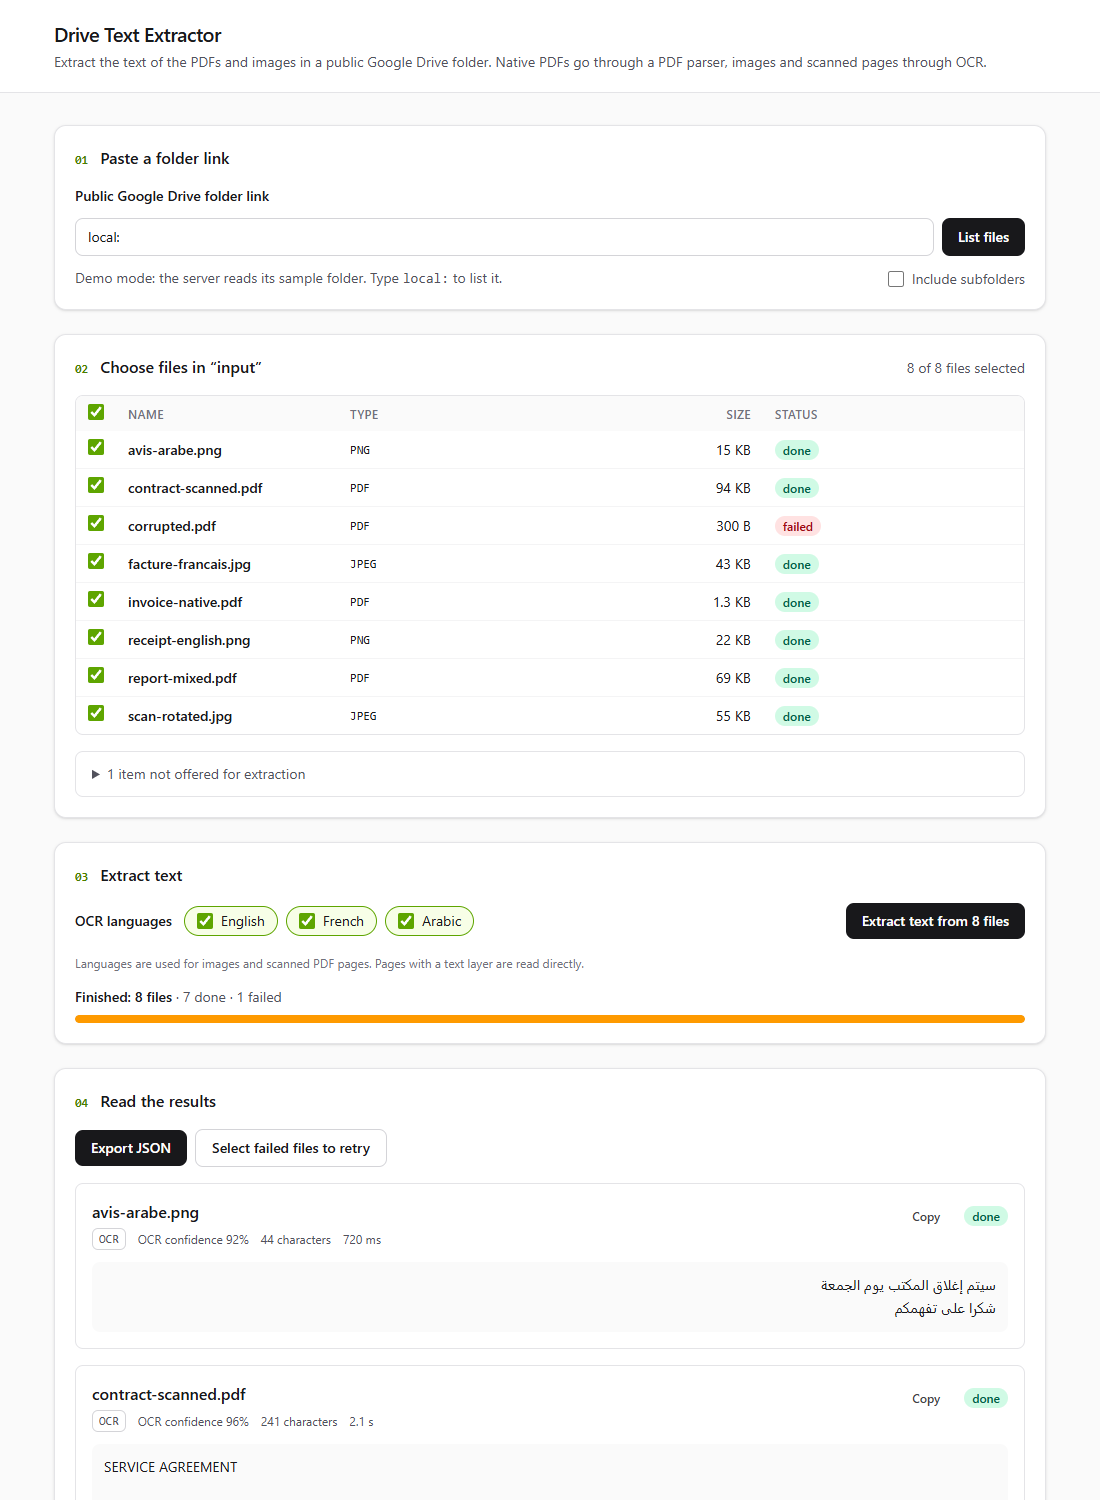
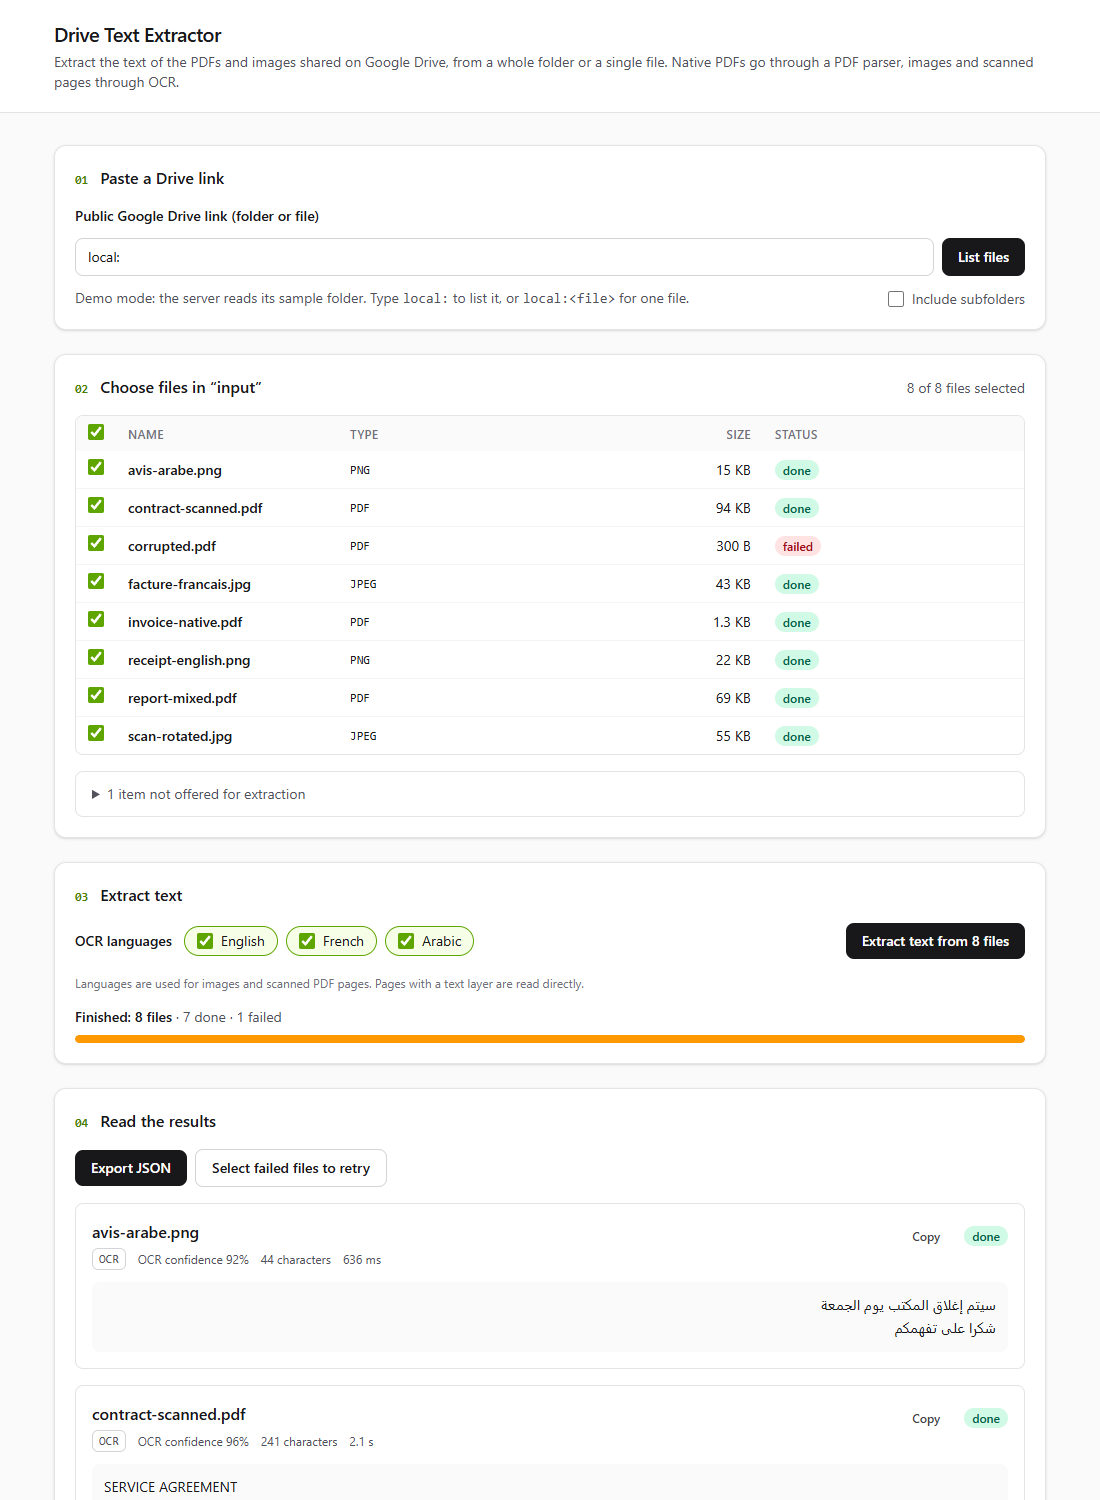
docs: describe single-file links
README and samples guide cover file links and local:<file>, the renamed POST /api/files/list endpoint and export schema 1.1. The sample export and the screenshot are regenerated from the Docker image.

diff --git a/README.md b/README.md
@@ -3,8 +3,8 @@
 [![CI](https://github.com/hae-emna/drive-text-extractor/actions/workflows/ci.yml/badge.svg)](https://github.com/hae-emna/drive-text-extractor/actions/workflows/ci.yml)
 [![Licence: MIT](https://img.shields.io/badge/licence-MIT-blue.svg)](LICENSE)
 
-Paste a public Google Drive folder link, pick the PDFs and images it contains, and get their
-text back. Each file goes through the right pipeline: a **PDF parser** for native PDFs, **OCR**
+Paste a public Google Drive link (a whole folder or a single file), pick the PDFs and images,
+and get their text back. Each file goes through the right pipeline: a **PDF parser** for native PDFs, **OCR**
 for images and for scanned PDF pages. Results can be read per file and exported as JSON.
 
 ![The full flow on the sample folder: 8 files listed and processed, 7 done and 1 failed, with Arabic text rendered right-to-left](docs/screenshot.png)
@@ -27,8 +27,8 @@ for images and for scanned PDF pages. Results can be read per file and exported 
 
 | Step | In the app |
 |---|---|
-| 01 Paste a public Drive link | Accepts every common folder link format. Invalid, private and file links get a specific message. |
-| 02 List the documents | Shows PDFs, PNG and JPEG files with name, type and size, optionally from subfolders. Everything else is listed as *skipped*, with a reason. |
+| 01 Paste a public Drive link | Accepts folder links and single-file links in every common format (`/drive/folders/…`, `/file/d/…/view`, `open?id=`, `uc?id=`, download links). Invalid and private links, and Google Docs links, get a specific message. |
+| 02 List the documents | Shows PDFs, PNG and JPEG files with name, type and size, optionally from subfolders. Everything else is listed as *skipped*, with a reason. A single-file link lists that file and selects it. |
 | 03 Select files | Per-file checkboxes, **Select all** (with a partial state); the selection count stays visible. |
 | 04 Run the batch | One job for the selection. Each file shows `pending`, `processing`, `done` or `failed`, live; a failing file never stops the others. The job can be cancelled. |
 | 05 Read the results | Text per file with the method used (`PDF parser`, `OCR`, or both for mixed PDFs), OCR confidence with a warning when low, and **Export JSON**. |
@@ -57,10 +57,11 @@ You need Docker. The app runs on <http://localhost:8000>.
    cp .env.example .env          # then set GOOGLE_API_KEY=... in .env
    docker compose up --build
    ```
-3. Share a Drive folder as **"Anyone with the link"** and paste its link. To try every path of
-   the pipeline, upload the files from [`samples/input`](samples/input) to that folder.
+3. Share a Drive folder or a single file as **"Anyone with the link"** and paste its link. To
+   try every path of the pipeline, upload the files from [`samples/input`](samples/input) to a
+   folder.
 
-No OAuth is involved: only public folders are in scope, so an API key is enough.
+No OAuth is involved: only public folders and files are in scope, so an API key is enough.
 
 ### Without an API key (demo mode)
 
@@ -68,8 +69,9 @@ No OAuth is involved: only public folders are in scope, so an API key is enough.
 FILE_SOURCE=local docker compose up --build      # PowerShell: $env:FILE_SOURCE="local"; docker compose up --build
 ```
 
-Type `local:` as the folder link. The server reads [`samples/input`](samples/input), a folder in
-which each file exercises one path of the pipeline (see [its README](samples/README.md)).
+Type `local:` as the link (or `local:report-mixed.pdf` for a single file). The server reads
+[`samples/input`](samples/input), a folder in which each file exercises one path of the pipeline
+(see [its README](samples/README.md)).
 [`samples/output-demo.json`](samples/output-demo.json) is the export of that run.
 
 ## Local development
@@ -153,7 +155,7 @@ How SOLID shows up, without frameworks or abstract factories:
 - **Open/closed.** An extractor declares the media types it handles and recognises its own content. A new format is a new class plus one line in `main.py`; `test_router_extension.py` proves it with a WebP extractor.
 - **Liskov.** `test_contract.py` runs the same suite against every extractor: same result shape, non-overlapping detection, only `ExtractionError` on bad input.
 - **Interface segregation.** Three small protocols (`FileSource`, `Extractor`, `OcrEngine`) rather than one service interface.
-- **Dependency inversion.** Services receive ports. `LocalFolderSource` was added without touching any service, and tests swap in fakes with no network and no OCR binary.
+- **Dependency inversion.** Services receive ports. `LocalFolderSource` was added without touching any service, and single-file links only changed the two sources. Tests swap in fakes with no network and no OCR binary.
 
 What happens to one file in a batch:
 
@@ -185,14 +187,14 @@ Licences of every dependency, and the alternatives rejected for licence reasons:
 | Method | Path | Purpose |
 |---|---|---|
 | GET | `/api/health` | Version, source type, OCR languages and whether each pack is installed |
-| POST | `/api/folders/list` | `{link, recursive}` → supported files and skipped files with reasons |
+| POST | `/api/files/list` | `{link, recursive}` → `kind` (`folder` or `file`), the supported files, and skipped files with reasons |
 | POST | `/api/jobs` | `{link, file_ids, languages, recursive}` → `202` and a job snapshot |
 | GET | `/api/jobs/{id}` | Per-file status, method, per-page text, confidence, error |
 | POST | `/api/jobs/{id}/cancel` | Skip the files that have not started yet |
 | GET | `/api/jobs/{id}/export` | Versioned JSON export, downloaded as a file |
 
 Errors always have the same shape, `{"error": {"code": "folder_not_found", "message": "..."}}`,
-with codes such as `invalid_link`, `folder_not_found`, `rate_limited`, `file_too_large`,
+with codes such as `invalid_link`, `folder_not_found`, `file_not_accessible`, `rate_limited`, `file_too_large`,
 `corrupt_file`, `encrypted_file` and `ocr_timeout`. The server re-lists the folder before
 starting a job, so only files that really belong to it can be processed.
 
@@ -218,8 +220,9 @@ scanned page:
 }
 ```
 
-The export wraps the files with `schema_version`, `job_id`, timestamps, `languages`, the
-`source` (type, link, folder) and a `summary` of counts per status.
+The export wraps the files with `schema_version` (currently `1.1`), `job_id`, timestamps,
+`languages`, the `source` (type, `kind` of link, link, folder or file) and a `summary` of counts
+per status. Additive changes bump the minor version.
 
 ## Configuration
 
@@ -274,7 +277,7 @@ All settings are environment variables, documented in [`.env.example`](.env.exam
 - **Not supported yet.**
   - Google Docs, Sheets and Slides are skipped instead of exported to PDF.
   - Folder shortcuts are not followed.
-  - Pre-2021 `resourcekey` links work for the root folder only.
+  - Pre-2021 `resourcekey` links work for the linked folder or file only, not for items inside a folder.
 - **OCR quality depends on the scan.** Very low-resolution photos, handwriting and complex backgrounds give poor results; the confidence score says so.
 - **Image size.** The Docker image is about 520 MB, mostly Python and Tesseract with its language data.
 

diff --git a/samples/README.md b/samples/README.md
@@ -2,9 +2,10 @@
 
 `input/` is a small folder in which each file exercises one path of the pipeline. Use it in two ways:
 
-- **Demo mode**: run the server with `FILE_SOURCE=local` and type `local:` as the folder link.
+- **Demo mode**: run the server with `FILE_SOURCE=local` and type `local:` as the link, or
+  `local:<file name>` for a single file.
 - **Google Drive**: upload the files to a Drive folder shared as "Anyone with the link" and paste
-  that folder's link.
+  the folder's link, or the link of any single file in it.
 
 The files are generated by [`backend/scripts/make_samples.py`](../backend/scripts/make_samples.py).
 
